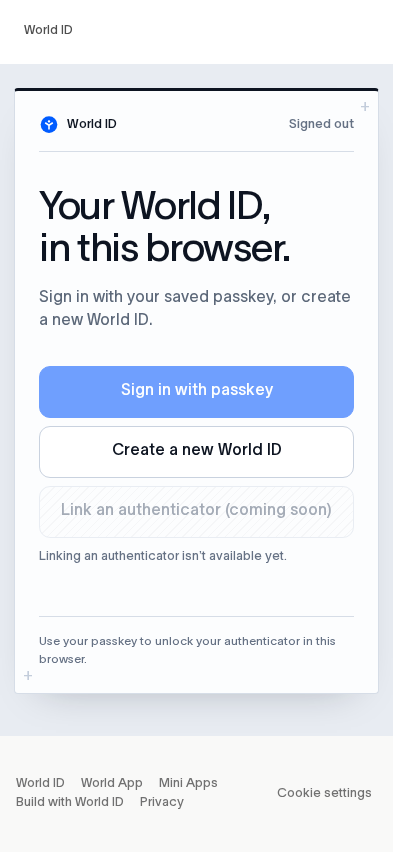
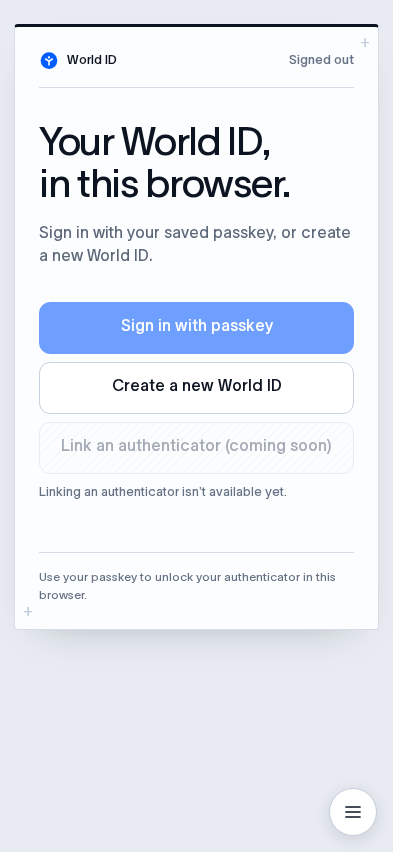
Move site links into floating menu

diff --git a/web/components/AppLayout.tsx b/web/components/AppLayout.tsx
@@ -1,29 +1,46 @@
-import type { ReactNode } from "react";
+import { useEffect, useRef, useState, type ReactNode } from "react";
 
 const PRIVACY_URL = "https://www.toolsforhumanity.com/legal/privacy-notice";
 
 /** Shared chrome stays mounted while the current screen changes. */
-export function AppLayout({ footerActions, hideControls = false, hideHeader = false, authenticator = false, children }: {
-  footerActions: ReactNode;
+export function AppLayout({ footerActions, hideControls = false, authenticator = false, children }: {
+  footerActions: (close: () => void) => ReactNode;
   hideControls?: boolean;
-  hideHeader?: boolean;
   authenticator?: boolean;
   children: ReactNode;
 }) {
-  return <div className="flex min-h-dvh flex-col bg-white pb-(--site-footer-height)">
-    <header inert={hideHeader} aria-hidden={hideHeader || undefined} className="data-[hidden=true]:invisible flex min-h-(--site-header-height) items-center px-6 pt-[calc(16px+env(safe-area-inset-top))] pb-4 md:px-8" data-hidden={hideHeader}>
-      <p className="z-5 max-w-full self-center text-center text-[13px] leading-[1.2] text-[#4e4e4e] md:text-[15px]">World ID</p>
-    </header>
+  return <div className="flex min-h-dvh flex-col bg-white">
     <main className={`relative flex w-full min-w-0 min-h-0 flex-1 flex-col overflow-x-clip min-[600px]:justify-center ${authenticator ? "bg-[#e8ecf2]" : "bg-white"}`}>{children}</main>
-    <footer className="fixed inset-x-0 bottom-0 z-30 flex min-h-(--site-footer-height) items-center justify-between gap-4 bg-surface-page px-4 pt-4 pb-[calc(16px+env(safe-area-inset-bottom))] text-[13px] text-foreground-secondary data-[hidden=true]:invisible md:px-8" data-hidden={hideControls} inert={hideControls} aria-hidden={hideControls || undefined}>
-      <nav className="flex flex-wrap items-center gap-x-4 gap-y-1" aria-label="World links">
-        <a className="hover:text-foreground hover:underline" href="https://world.org/world-id">World ID</a>
-        <a className="hover:text-foreground hover:underline" href="https://world.org/world-app">World App</a>
-        <a className="hover:text-foreground hover:underline" href="https://world.org/ecosystem">Mini Apps</a>
-        <a className="hover:text-foreground hover:underline" href="https://docs.world.org/world-id/overview">Build with World ID</a>
-        <a className="hover:text-foreground hover:underline" href={PRIVACY_URL} target="_blank" rel="noopener noreferrer">Privacy</a>
-      </nav>
-      {footerActions}
-    </footer>
+    {!hideControls && <WorldMenu footerActions={footerActions} />}
   </div>;
+}
+
+function WorldMenu({ footerActions }: { footerActions: (close: () => void) => ReactNode }) {
+  const [open, setOpen] = useState(false);
+  const menu = useRef<HTMLDivElement>(null);
+  const trigger = useRef<HTMLButtonElement>(null);
+  useEffect(() => {
+    if (!open) return;
+    const dismiss = (event: PointerEvent) => { if (!menu.current?.contains(event.target as Node)) setOpen(false); };
+    const escape = (event: KeyboardEvent) => {
+      if (event.key === "Escape") { setOpen(false); trigger.current?.focus(); }
+    };
+    document.addEventListener("pointerdown", dismiss);
+    document.addEventListener("keydown", escape);
+    return () => { document.removeEventListener("pointerdown", dismiss); document.removeEventListener("keydown", escape); };
+  }, [open]);
+  const link = "block rounded-lg px-4 py-2 text-[14px] text-[#0d1421] hover:bg-[#f2f6fc] focus-visible:outline-2 focus-visible:outline-[#0a5cfe]";
+  return <div ref={menu} className="fixed right-[max(16px,env(safe-area-inset-right))] bottom-[max(16px,env(safe-area-inset-bottom))] z-30">
+      {open && <nav id="world-menu" aria-label="World links" className="absolute right-0 bottom-[60px] w-56 rounded-xl border border-[#d6dde7] bg-white p-2 shadow-[0_12px_32px_rgba(13,20,33,.18)]">
+        <a className={link} onClick={() => setOpen(false)} href="https://world.org/world-id">World ID</a>
+        <a className={link} onClick={() => setOpen(false)} href="https://world.org/world-app">World App</a>
+        <a className={link} onClick={() => setOpen(false)} href="https://world.org/ecosystem">Mini Apps</a>
+        <a className={link} onClick={() => setOpen(false)} href="https://docs.world.org/world-id/overview">Build with World ID</a>
+        <a className={link} onClick={() => setOpen(false)} href={PRIVACY_URL} target="_blank" rel="noopener noreferrer">Privacy</a>
+        {footerActions(() => setOpen(false))}
+      </nav>}
+      <button ref={trigger} type="button" aria-label="Menu" aria-expanded={open} aria-controls={open ? "world-menu" : undefined} className="grid size-12 place-items-center rounded-full border border-[#c3cddb] bg-white text-[#0d1421] shadow-[0_4px_16px_rgba(13,20,33,.12)] hover:bg-[#f2f6fc]" onClick={() => setOpen(value => !value)}>
+        <svg width="20" height="20" viewBox="0 0 20 20" fill="none" aria-hidden="true"><path d="M3 5h14M3 10h14M3 15h14" stroke="currentColor" strokeWidth="1.7" strokeLinecap="round" /></svg>
+      </button>
+    </div>;
 }

diff --git a/tests/integration/browser/authenticator.browser.spec.ts b/tests/integration/browser/authenticator.browser.spec.ts
@@ -107,7 +107,7 @@ if (!("bun" in process.versions)) {
     for (const reducedMotion of ["no-preference", "reduce"] as const) {
       test(`pauses hidden stages, clears the face, and finishes once (${reducedMotion})`, async ({ page }, info) => {
         await page.emulateMedia({ reducedMotion });
-        const footerPosition = await page.getByRole("button", { name: "Cookie settings" }).boundingBox();
+        const footerPosition = await page.getByRole("button", { name: "Menu" }).boundingBox();
         await hideAtStage(page, "capture-complete");
         await page.getByRole("button", { name: "Start selfie check" }).click();
         await expect(page.locator("[data-stage]")).toHaveAttribute("data-stage", "capture-complete");
@@ -150,7 +150,7 @@ if (!("bun" in process.versions)) {
         });
         await page.clock.runFor(2000);
         await expect(page.getByRole("heading", { name: "Save your authenticator?" })).toBeVisible();
-        expect(await page.getByRole("button", { name: "Cookie settings" }).boundingBox()).toEqual(footerPosition);
+        expect(await page.getByRole("button", { name: "Menu" }).boundingBox()).toEqual(footerPosition);
         await page.getByRole("button", { name: "Not now" }).click();
         await page.clock.runFor(10_000);
         await expect(page.getByRole("heading", { name: "Selfie captured" })).toBeVisible();
@@ -176,27 +176,27 @@ if (!("bun" in process.versions)) {
     });
   });
 
-  test("shared chrome stays in place across public screens without developer controls", async ({ page }, info) => {
+  test("menu keeps links and cookie settings available across viewport sizes", async ({ page }, info) => {
     for (const viewport of [{ width: 320, height: 568 }, { width: 393, height: 852 }, { width: 1280, height: 900 }]) {
       await page.setViewportSize(viewport);
       await page.goto("/");
       await expect(page.getByRole("heading", { name: "Your World ID, in this browser." })).toBeVisible();
-      const privacy = page.getByRole("link", { name: "Privacy", exact: true });
-      const position = await privacy.boundingBox();
+      const menu = page.getByRole("button", { name: "Menu" });
+      const position = await menu.boundingBox();
       expect(position).not.toBeNull();
-      expect(position!.y).toBeGreaterThan(viewport.height - 100);
-      await page.evaluate(() => window.scrollTo(0, document.body.scrollHeight));
-      expect(await privacy.boundingBox()).toEqual(position);
-      await expect(page.getByRole("switch", { name: "Dev mode" })).toHaveCount(0);
-      await expect(page.locator("#developer-panel")).toHaveCount(0);
-      await expect(page.getByRole("heading", { name: "Your World ID, in this browser." })).toBeVisible();
-      expect(await privacy.boundingBox()).toEqual(position);
+      expect(position!.y).toBeGreaterThan(viewport.height - 80);
       await page.screenshot({ path: `test-results/screenshots/${info.project.name}-saved-access-${viewport.width}.png`, fullPage: true });
+      await menu.click();
+      await expect(page.getByRole("link", { name: "Privacy" })).toBeVisible();
+      await page.screenshot({ path: `test-results/screenshots/${info.project.name}-menu-${viewport.width}.png`, fullPage: true });
+      await page.keyboard.press("Escape");
+      await expect(page.getByRole("link", { name: "Privacy" })).toHaveCount(0);
+      await expect(menu).toBeFocused();
+      await menu.click();
       await page.getByRole("button", { name: "Cookie settings" }).click();
       await expect(page.getByRole("heading", { name: "Help improve World ID" })).toBeVisible();
-      expect(await privacy.boundingBox()).toEqual(position);
-      await expect(page.getByRole("banner")).toHaveCount(1);
-      await expect(page.getByRole("contentinfo")).toHaveCount(1);
+      expect(await menu.boundingBox()).toEqual(position);
+      await expect(page.getByRole("switch", { name: "Dev mode" })).toHaveCount(0);
     }
   });
 

diff --git a/web/AppShell.tsx b/web/AppShell.tsx
@@ -7,7 +7,7 @@ import type { ConsentChoice, ConsentClient, ConsentState } from "./lib/consent";
 /** Hides shared chrome while the full-screen camera is open. */
 export const CaptureScreenContext = createContext<(active: boolean) => void>(() => {});
 
-/** Hides shared footer controls while a timed sequence plays. */
+/** Hides the menu while a timed sequence plays. */
 export const CompletionAnimationContext = createContext<(active: boolean) => void>(() => {});
 
 /** Chrome and cookie consent around every route. */
@@ -45,11 +45,11 @@ export function AppShell({ consent }: { consent: ConsentClient }) {
   // the user chooses.
   const consentScreen = consentState === "unset" || consentOpen;
 
-  const footerActions = <span className="inline-flex w-[100px] shrink-0 items-center gap-3 whitespace-nowrap">
-    <button className="min-h-8 text-[13px] hover:text-ink hover:underline" aria-hidden={consentState === null || consentState === "unset" || consentOpen || undefined} tabIndex={consentState === null || consentState === "unset" || consentOpen ? -1 : 0} style={{ visibility: consentState === null || consentState === "unset" || consentOpen ? "hidden" : undefined }} onClick={() => { setConsentError(null); setConsentOpen(true); }}>Cookie settings</button>
-  </span>;
+  const footerActions = (close: () => void) => consentState !== null && consentState !== "unset" && !consentOpen
+    ? <button className="block w-full rounded-lg px-4 py-2 text-left text-[14px] text-[#0d1421] hover:bg-[#f2f6fc]" onClick={() => { close(); setConsentError(null); setConsentOpen(true); }}>Cookie settings</button>
+    : null;
 
-  return <AppLayout footerActions={footerActions} hideControls={completionAnimating || captureActive} hideHeader={captureActive} authenticator={isAuthenticator && !consentScreen}>
+  return <AppLayout footerActions={footerActions} hideControls={completionAnimating || captureActive} authenticator={isAuthenticator && !consentScreen}>
     {consentState !== null && consentScreen && <ConsentScreen busy={consentBusy} error={consentError} onChoose={choice => void chooseConsent(choice)} />}
     <div className="contents" hidden={consentState === null || consentScreen}>
       <CompletionAnimationContext value={setCompletionAnimating}><CaptureScreenContext value={setCaptureActive}><Outlet /></CaptureScreenContext></CompletionAnimationContext>

diff --git a/web/app.css b/web/app.css
@@ -53,18 +53,12 @@
 
 @layer base {
   :root {
-    --site-header-height: calc(64px + env(safe-area-inset-top));
-    --site-footer-height: calc(116px + env(safe-area-inset-bottom));
-    --request-frame-min-height: min(720px, calc(100svh - var(--site-header-height) - var(--site-footer-height)));
+    --request-frame-min-height: min(720px, 100svh);
     color: var(--color-foreground);
     background: var(--color-surface-page);
     line-height: normal;
     font-synthesis: none;
     text-rendering: optimizeLegibility;
-  }
-
-  @media (min-width: 640px) {
-    :root { --site-footer-height: calc(76px + env(safe-area-inset-bottom)); }
   }
 
   html,

diff --git a/web/test/app.test.tsx b/web/test/app.test.tsx
@@ -103,6 +103,7 @@ test("a first visit sees the consent screen before the home page, and the choice
   fireEvent.click(view.getByRole("button", { name: "Accept" }));
   expect(await view.findByRole("heading", { name: "Your World ID, in this browser." })).toBeTruthy();
   expect(saved).toEqual(["granted"]);
+  fireEvent.click(view.getByRole("button", { name: "Menu" }));
   fireEvent.click(view.getByRole("button", { name: "Cookie settings" }));
   fireEvent.click(await view.findByRole("button", { name: "Decline" }));
   expect(await view.findByRole("heading", { name: "Your World ID, in this browser." })).toBeTruthy();

diff --git a/web/README.md b/web/README.md
@@ -15,7 +15,7 @@ temporary camera flow. Mixed requests, user-presence requirements and identity
 attributes remain unsupported. Direct visits open the authenticator. A user can create a World ID with a passkey
 or sign in to an existing authenticator in this browser. Linking is not available.
 A signed-in user without an active Selfie Check can open the camera preview;
-credential issuance is not yet connected.
+credential issuance is not yet connected. World links and cookie settings are available from the floating menu.
 
 The public flow uses local capture as its completion signal; it does not send a
 verified IDKit response. The oval’s 64 dots fill gold clockwise during a 1.2-second
@@ -28,7 +28,7 @@ Reduced motion shows the green border immediately with the same 500 ms hold.
 The button-free sigil confirmation holds for
 1.5 seconds, then automatically opens the one-time **Save with passkey / Not now**
 decision. These timed stages pause while the tab is hidden and stop on exit;
-reduced-motion users skip the movement. Shared footer controls are hidden during
+reduced-motion users skip the movement. The shared menu is hidden during
 the sequence without changing the layout. Declining ends the session; saving
 uses the existing passkey setup and immediately closes the wallet. Both outcomes
 are terminal. Interrupted setup may retain a passkey profile for recovery.
